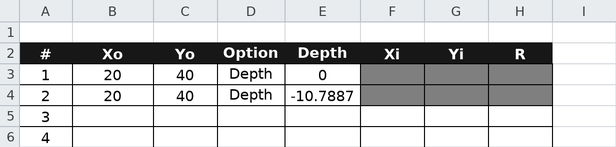
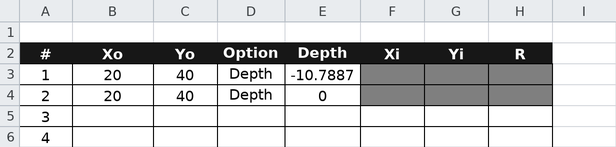
tutorials(lem06): the starting circles read in the generator's order, and the refusal is the first circle's
The page's table listed the contact circle first and the deep seed second,
while Generate starting circles… lists the toe circle first — so a reader
who followed step C.3 and typed -10.7887 over the toe circle's Depth ended
with a sheet the table did not describe. The table, the two sentences that
read it, and the circles worksheet now all carry -10.7887 then 0.

That also makes the single-surface step work as written. Run LEM's Single
surface analyzes the FIRST circle on the sheet, so pushing the second one
to Depth -12 solved the other circle and returned 1.2471 instead of the
refusal the page quotes. The step now edits the first circle, which is the
deep seed, and the run raises

    Failure surface extends outside the domain polygon

verbatim (Spencer, 40 slices, the circle re-cut to Depth -12, R 52).

Both captures are regenerated from the reordered workbook, and the circles
editor preview now draws the deep arc bold — which is what its caption has
always said it shows. The row swap is inert for every answer on the page:
Spencer's search returns 1.2441 either way, and samples.md's seven-method
lock on the same workbook reproduces (1.244 / 1.244 / 1.314 / 1.326 /
1.285 / 1.244 / 1.244). The page's single_circle tag follows the deep
circle to circle_index=0 and passes at 1.6550 against its 1.655.

Claude-Session: https://claude.ai/code/session_01XjjT2aBxw8gY7EFdpoUcpj

Changed region(s): [[0.4627, 0.5986, 0.586, 0.7075], [0.4627, 0.4626, 0.586, 0.5442]]

diff --git a/tools/make_tutorial_figures.py b/tools/make_tutorial_figures.py
@@ -781,7 +781,7 @@ LEM06 = os.path.join(REPO_ROOT, "docs/lem/files/xslope_sloping_bottom.xlsx")
 LEM06_SLICES = 40
 
 #: A circle 1.2 ft deeper than the deepest one that fits inside the domain — the
-#: file's second starting circle is tangent to the dipping base at Depth
+#: file's first starting circle is tangent to the dipping base at Depth
 #: −10.7887, so this one crosses it. It is the page's demonstration of both
 #: halves of the composite option: refused without it, truncated with it.
 LEM06_DEEP = dict(Xo=20.0, Yo=40.0, Depth=-12.0, R=52.0)

diff --git a/docs/tutorials/lem06_polygon_geometry.md b/docs/tutorials/lem06_polygon_geometry.md
@@ -106,15 +106,15 @@ twice the slope height:
 
 | Xo | Yo | Option | Depth |
 | :---: | :---: | --- | :---: |
-| 20 | 40 | Depth | 0 |
 | 20 | 40 | Depth | -10.7887 |
+| 20 | 40 | Depth | 0 |
 
-The first is tangent to the contact between the two soils. The second is as deep
-as a circle from that center can be and still fit inside the domain: its lowest
-point sits at elevation −10.7887, and the bedrock beneath the center is at
-−10.88. **Depth is an elevation**, and on a dipping base a circle tangent to that
-base touches it at a single point rather than running along it — which is what
-the [last section](#circles-that-will-not-fit) of this page is about.
+The first is as deep as a circle from that center can be and still fit inside the
+domain: its lowest point sits at elevation −10.7887, and the bedrock beneath the
+center is at −10.88. The second is tangent to the contact between the two soils.
+**Depth is an elevation**, and on a dipping base a circle tangent to that base
+touches it at a single point rather than running along it — which is what the
+[last section](#circles-that-will-not-fit) of this page is about.
 
 Every number the model needs is in the tables above, and each is laid out exactly
 as its destination — the template's worksheets and Studio's editors, same
@@ -325,7 +325,7 @@ own, the deeper of the two starting circles — the deepest that fits — comes 
 third safer, because everything it adds is foundation at twice the fill's
 cohesion.
 
-<!-- test: file=../lem/files/xslope_sloping_bottom.xlsx, type=single_circle, circle_index=1, method=spencer, num_slices=40, expected_fs=1.655, tolerance=0.005 -->
+<!-- test: file=../lem/files/xslope_sloping_bottom.xlsx, type=single_circle, circle_index=0, method=spencer, num_slices=40, expected_fs=1.655, tolerance=0.005 -->
 
 The solution carries the interslice-tension and line-of-thrust warnings a φ = 0
 crest produces, which [LEM-1](lem01_simple_embankment.md) diagnoses and fixes
@@ -347,9 +347,10 @@ satisfies both force and moment equilibrium and is the one to report.
 
 ### Circles that will not fit {#circles-that-will-not-fit}
 
-We take the second starting circle, whose lowest point grazes the bedrock, and
+We take the first starting circle, whose lowest point grazes the bedrock, and
 push it 1.2 ft deeper — **Depth** `-12` in place of `-10.7887` — then run it as a
-**Single surface**. There is no answer:
+**Single surface**, which solves the first circle on the sheet. There is no
+answer:
 
 > **LEM run failed** — Failure surface extends outside the domain polygon
 
